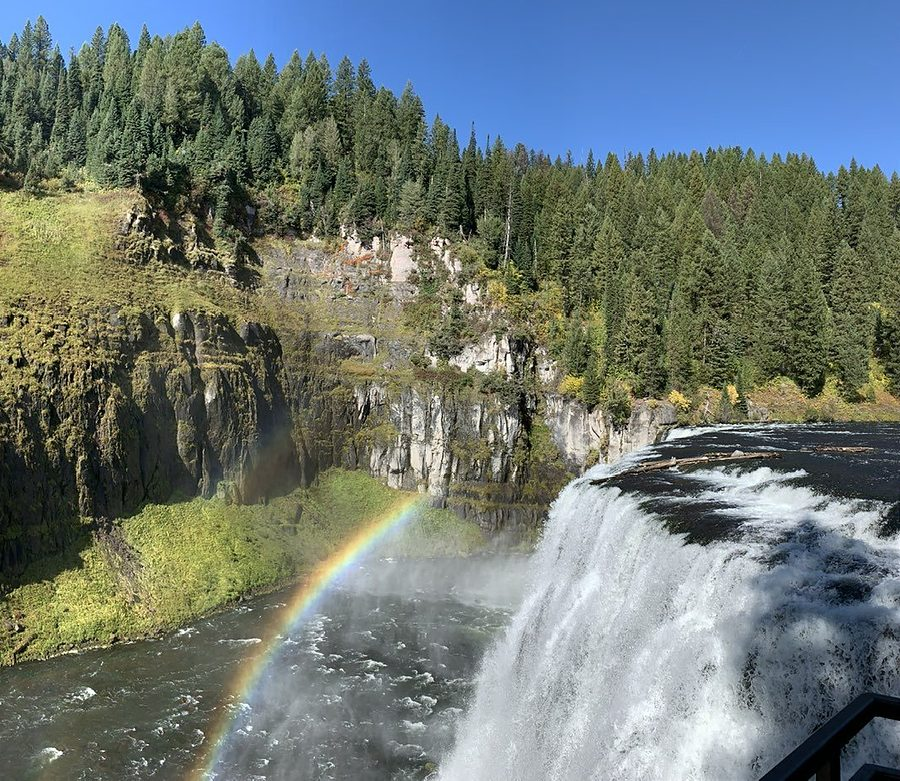
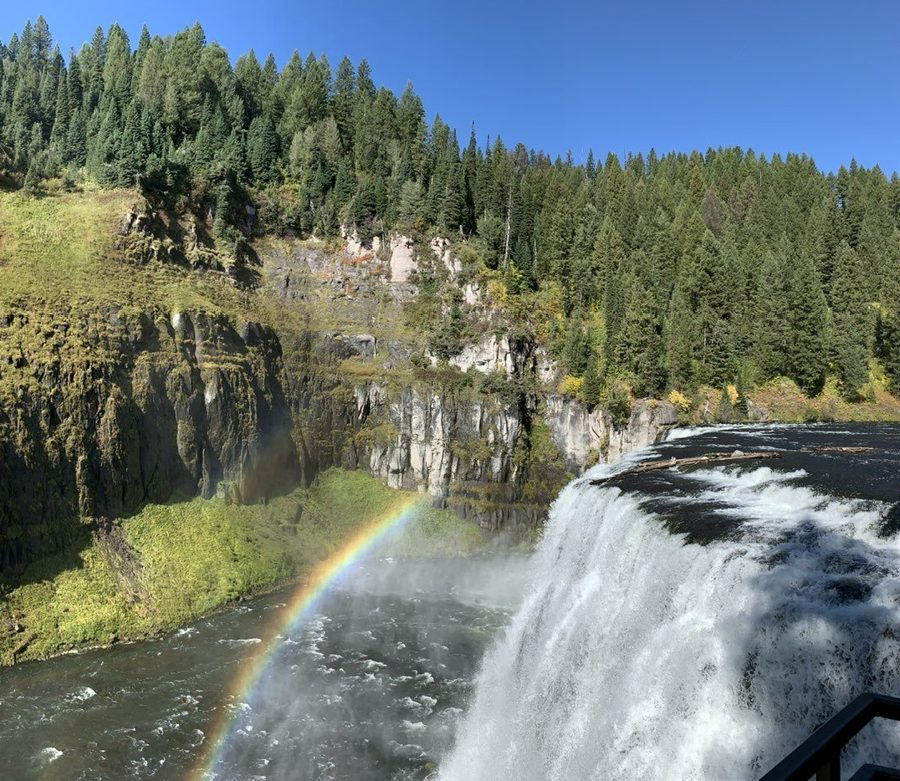
Home hero: brighten left side of photo, lighter text gradient with stronger text shadow
Claude-Session: https://claude.ai/code/session_01MVL8fF3oQ234Zw1CNZ9Yh6

diff --git a/public/style.css b/public/style.css
@@ -118,7 +118,7 @@ dialog.lb img{max-width:96vw;max-height:90vh;width:auto;height:auto;border-radiu
 dialog.lb button{position:fixed;background:rgba(255,255,255,.14);color:#fff;border:0;font-size:1.6rem;line-height:1;width:48px;height:48px;border-radius:50%;cursor:pointer}
 dialog.lb .x{top:14px;right:14px}dialog.lb .p{left:12px;top:50%}dialog.lb .n{right:12px;top:50%}
 dialog.lb button:hover,dialog.lb button:focus-visible{background:rgba(255,255,255,.3)}
-@media (min-width:1200px){.hero{aspect-ratio:2576/934;display:flex;align-items:center;padding:0;background-size:cover;background-image:linear-gradient(90deg,rgba(8,20,30,.72),rgba(8,20,30,.38) 34%,rgba(8,20,30,0) 58%),linear-gradient(0deg,rgba(8,20,30,.45),rgba(8,20,30,0) 38%),url(/images/hero.jpg)}.hero>.wrap{width:100%}.hero h1{max-width:15ch;font-size:clamp(2.1rem,3.6vw,3.1rem)}.hero p.lead{max-width:26rem;font-size:1.1rem;text-shadow:0 1px 12px rgba(0,0,0,.55)}.hero h1,.hero .eyebrow{text-shadow:0 1px 14px rgba(0,0,0,.55)}}
+@media (min-width:1200px){.hero{aspect-ratio:2576/934;display:flex;align-items:center;padding:0;background-size:cover;background-image:linear-gradient(90deg,rgba(8,20,30,.42),rgba(8,20,30,.2) 34%,rgba(8,20,30,0) 56%),linear-gradient(0deg,rgba(8,20,30,.3),rgba(8,20,30,0) 35%),url(/images/hero.jpg)}.hero>.wrap{width:100%}.hero h1{max-width:15ch;font-size:clamp(2.1rem,3.6vw,3.1rem)}.hero p.lead{max-width:26rem;font-size:1.1rem;text-shadow:0 1px 3px rgba(0,0,0,.6),0 2px 16px rgba(0,0,0,.65)}.hero h1,.hero .eyebrow{text-shadow:0 1px 3px rgba(0,0,0,.6),0 2px 16px rgba(0,0,0,.65)}}
 @media (max-width:480px){.brand{font-size:1.05rem}}
 .gallery figure{margin:0}
 @media(min-width:820px){.cabin-card{display:grid;grid-template-columns:1.3fr 1fr;align-items:stretch}.cabin-card>a{display:block;position:relative;min-height:380px}.cabin-card img{position:absolute;inset:0;width:100%;height:100%;aspect-ratio:auto;object-fit:cover}.cabin-card .cbody{display:flex;flex-direction:column;justify-content:center;padding:32px 34px}.cabin-card .cbody h3{font-size:1.9rem}.cabin-card .cbody p{font-size:1.02rem}.cabin-card .cbody .row{align-items:center;margin-top:1.4em}.cabin-card .btn{padding:.7em 1.3em;font-size:1rem}}
